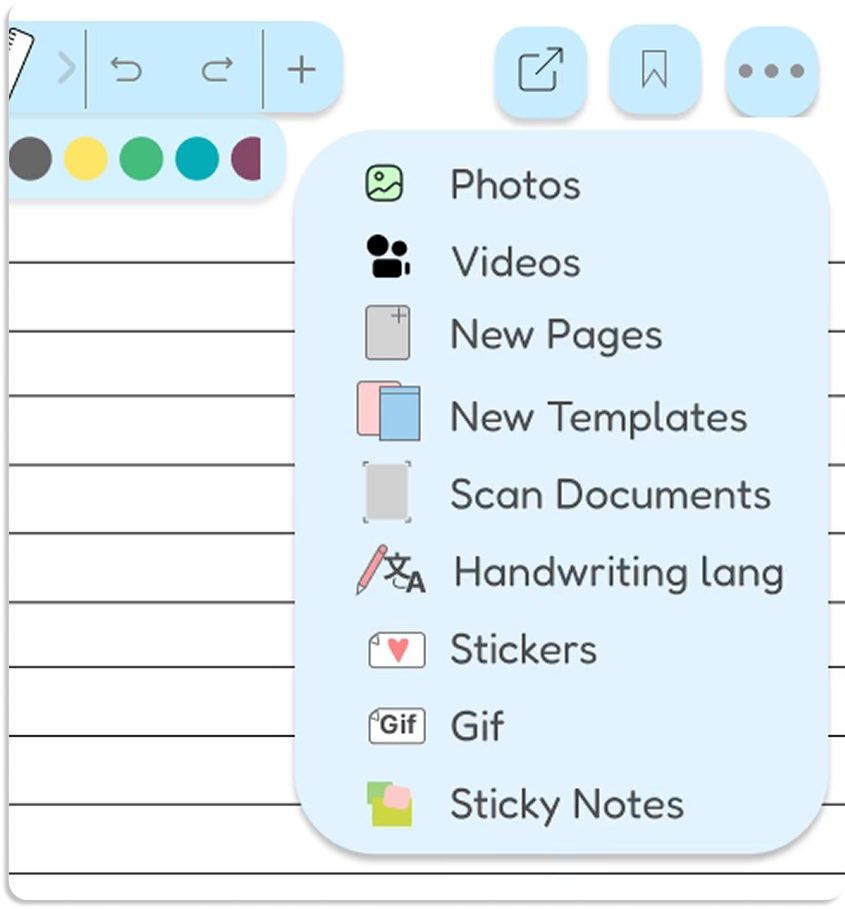
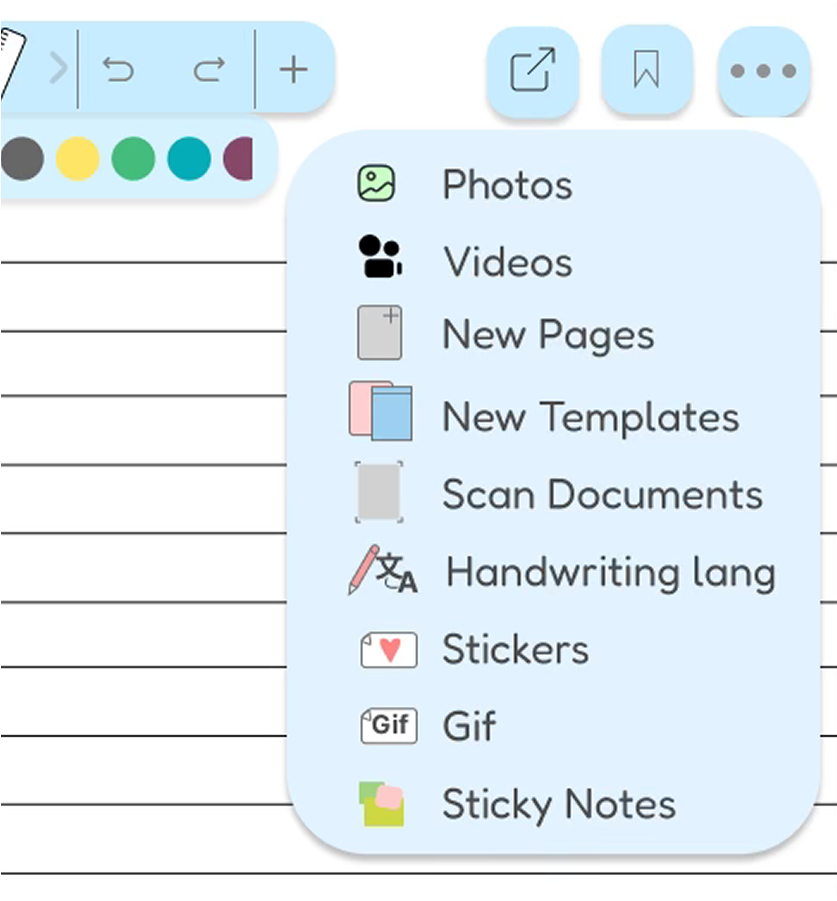
Correction importation image sans bordure et paragraphe correction

diff --git a/CSS/main.css b/CSS/main.css
@@ -111,7 +111,7 @@ body {
 }
 
 .image-UI img {
-    width: 80%;
+    width: 85%;
     object-fit: cover;
     position: relative;
 
@@ -119,7 +119,7 @@ body {
 .UI-Description img:hover{
     transform: scale(1.05);
     transition: all 0.7s;
-    box-shadow: 2px 2px 5px 2px #86badf;
+    box-shadow: 2px 2px 2px 2px #86badf;
 
 }
 

diff --git a/main.htm b/main.htm
@@ -122,7 +122,7 @@
                 </div>
                 <div>
                     <p>CORRECTION MANUSCRIPT <br> ET <br> BEAUCOUP PLUS DE FONCTIONNALITÉS D'IA <br>
-                        
+                        <a href="">savoir plus</a>
                     </p>
                 </div>
                 <div>
